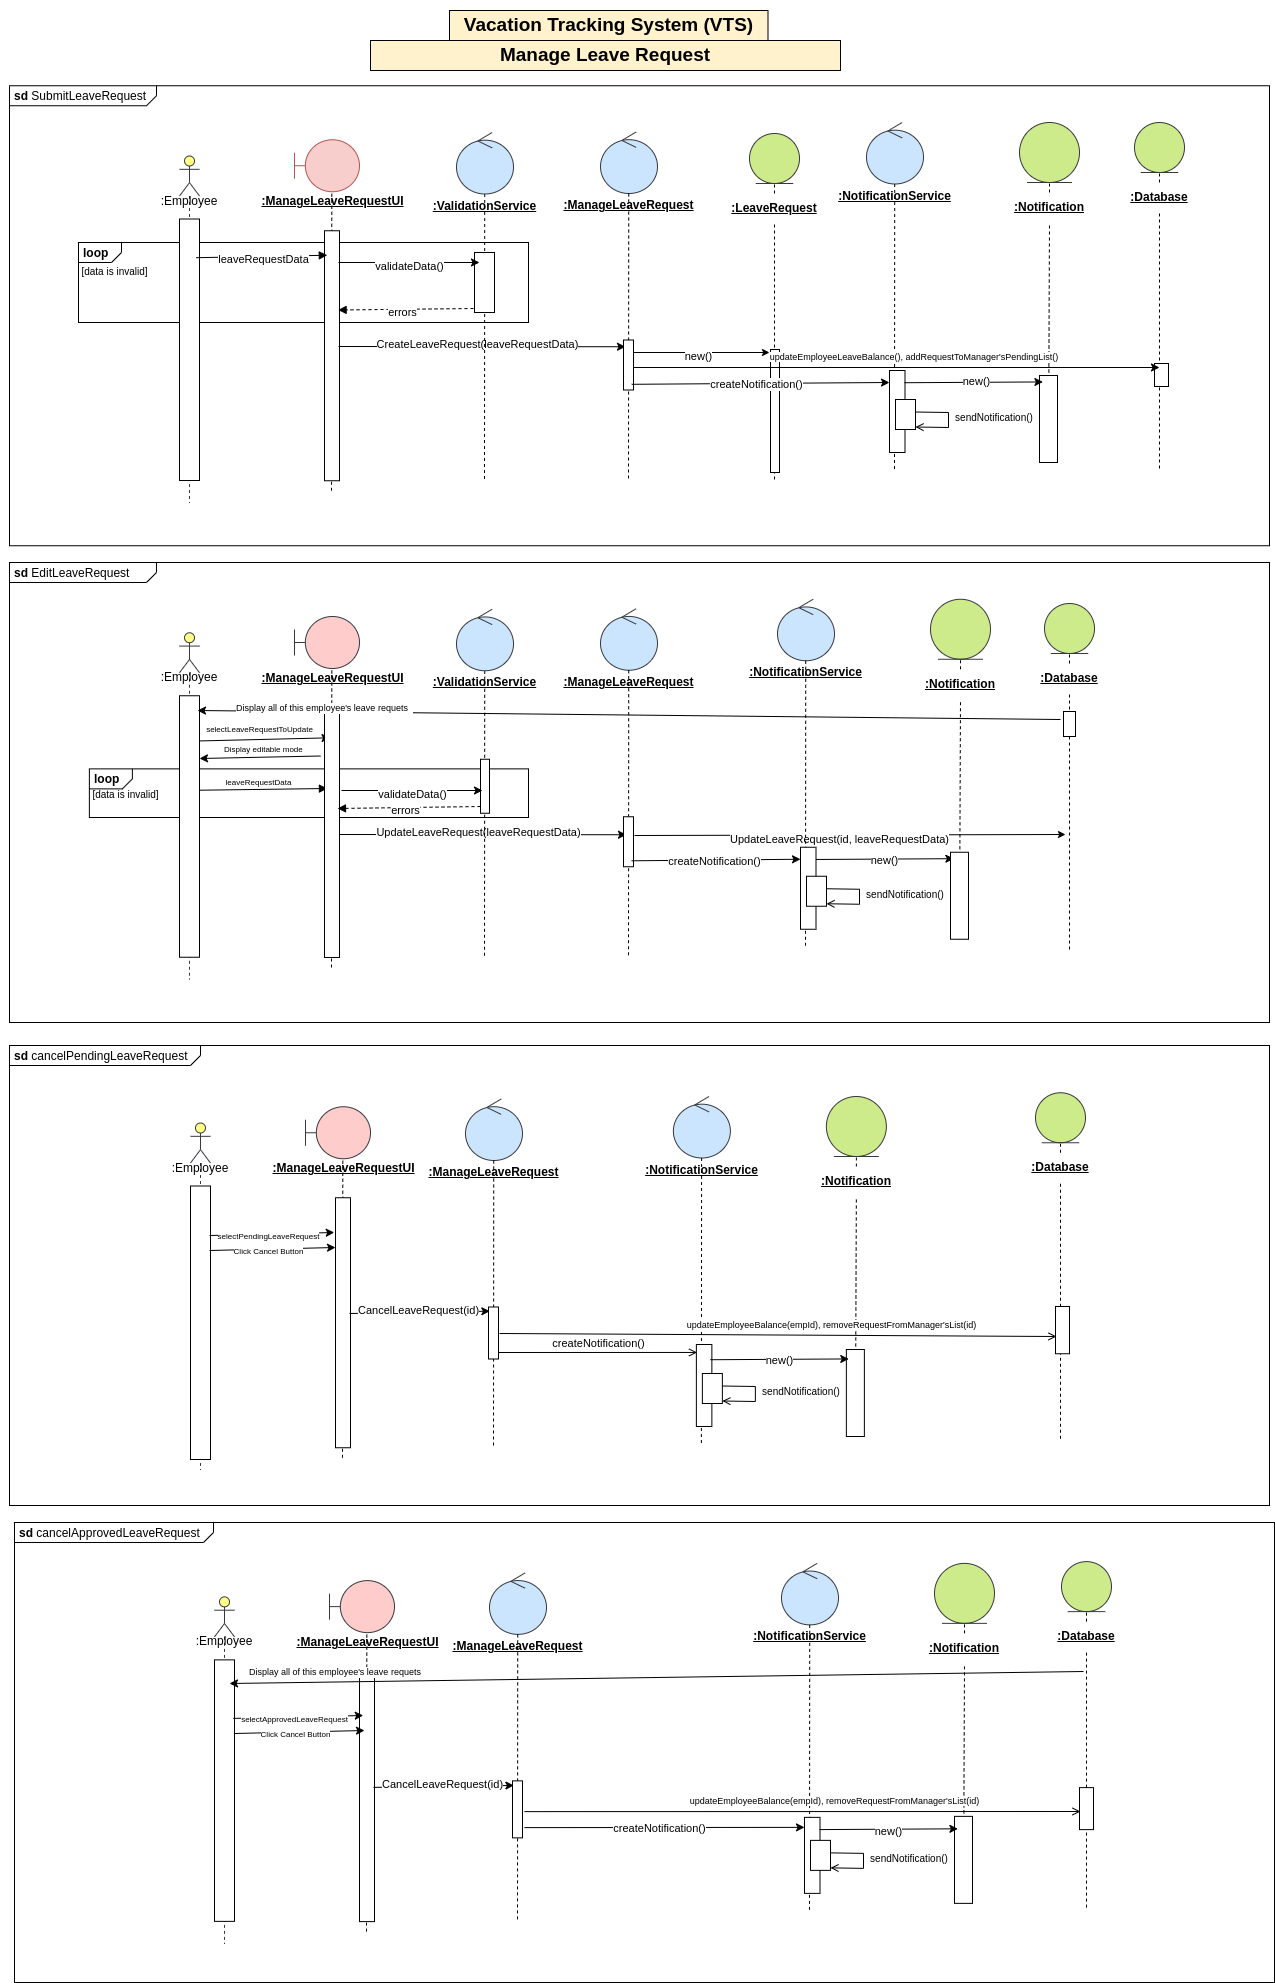
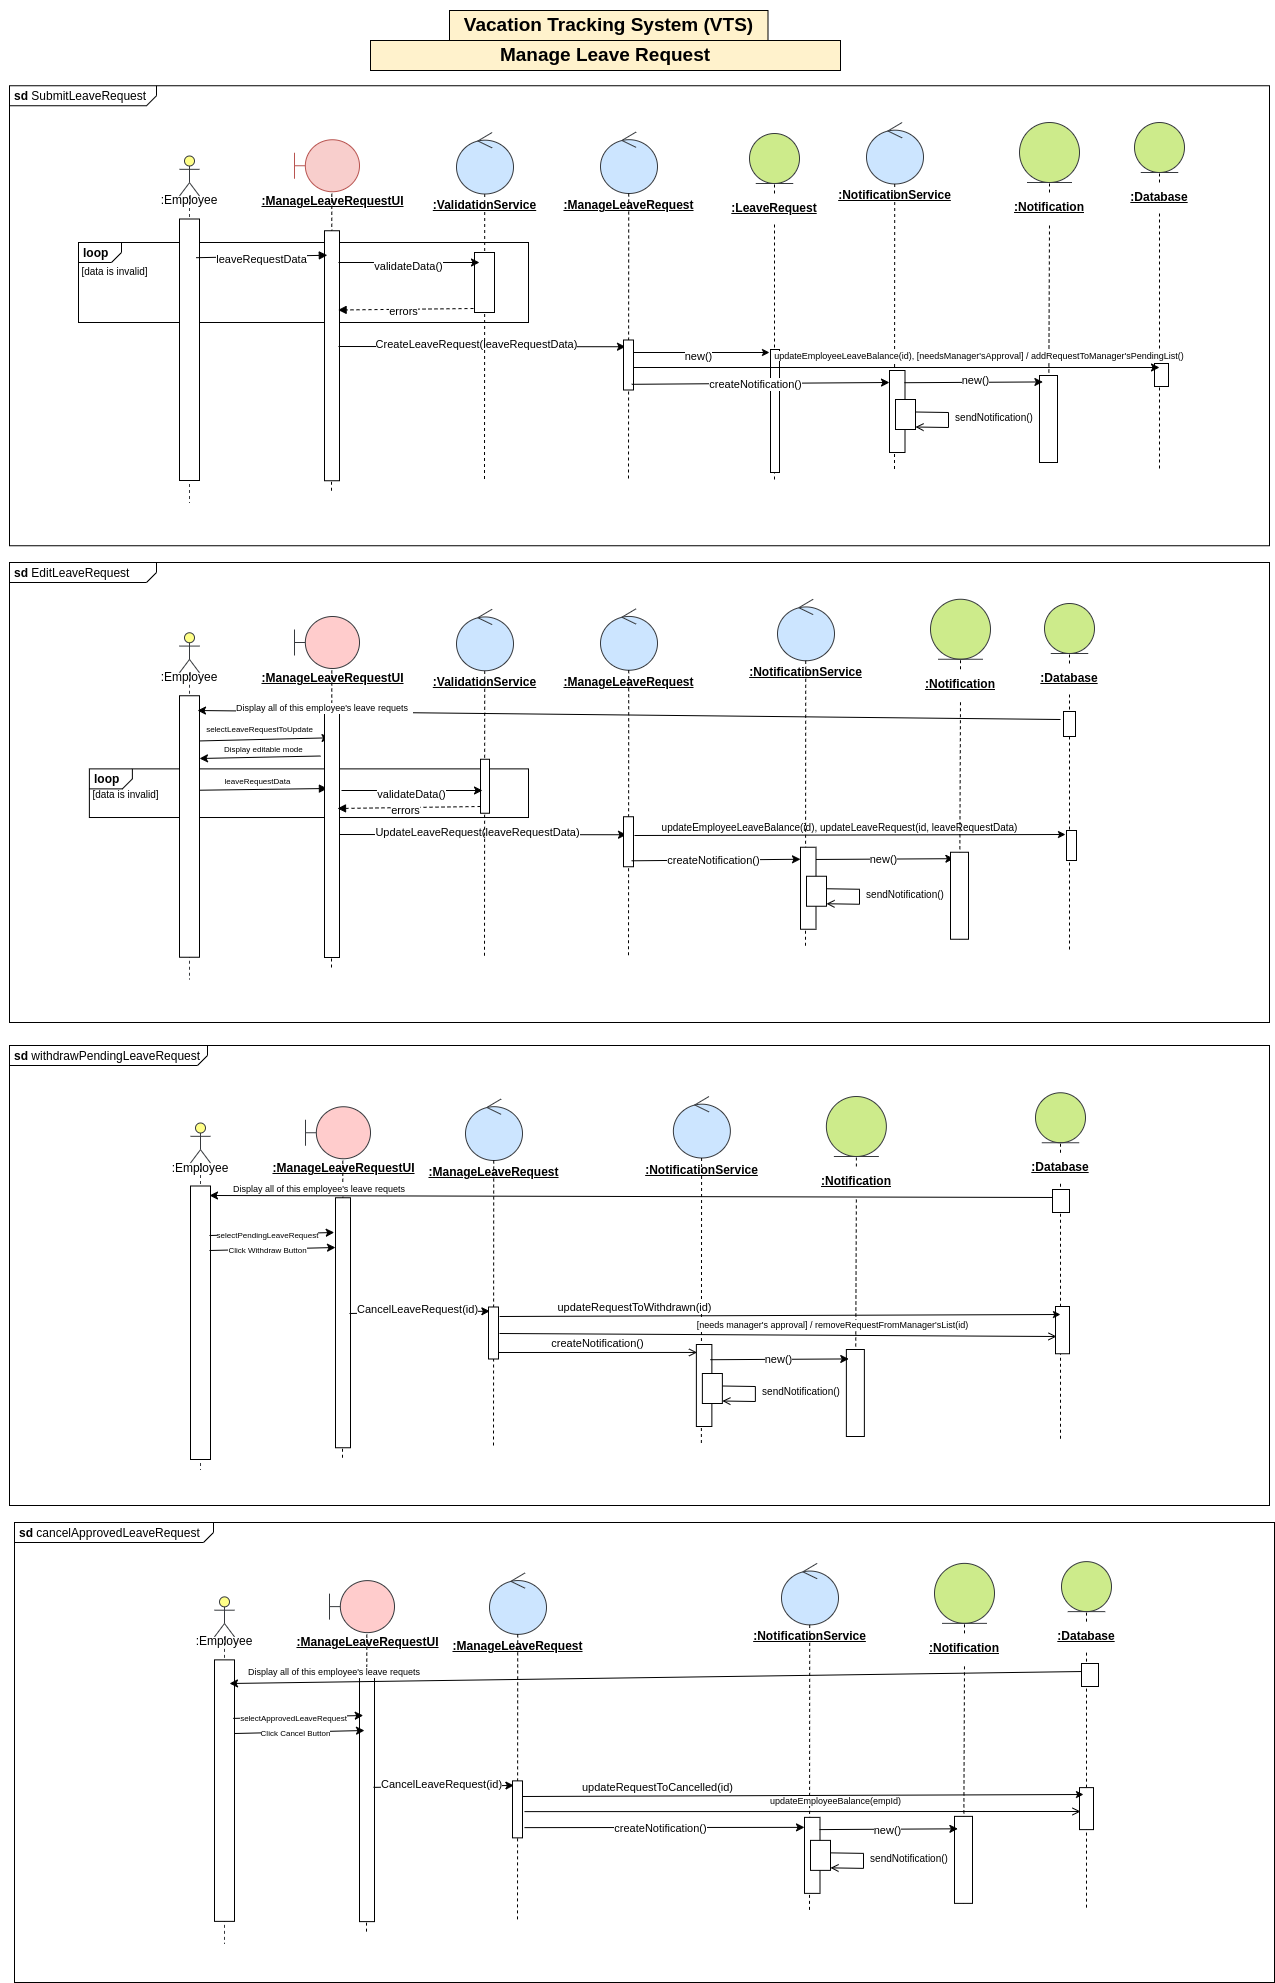
Revise everything and update accordingly

diff --git a/use-cases-specification/ManageLeaveRequest.md b/use-cases-specification/ManageLeaveRequest.md
@@ -19,7 +19,7 @@
 | Postconditions                                                              |
 |------------------------------------------------------------------------------|
 | - A new leave request is created and saved                                  |
-| - Notification is sent to the manager                                       |
+| - A notification is sent to the manager                                       |
 
 ### Main Flow
 | Step | Description                                                                                                                                                   |
@@ -30,7 +30,7 @@
 | 4    | The employee submits the request.                                                                                                                             |
 | 5    | If the submitted information is incomplete or incorrect, relevant errors are shown.                                                                          |
 | 6    | The employee has the opportunity to change the information or cancel the request.                                                                            |
-| 7    | If passes validation, the employee is returned to the VTS home page. If the employee’s leave request requires manager approval, an email is sent to manager. |
+| 7    | If passes validation, an email is sent to manager, and the employee is returned to the VTS home page. If the employee’s leave request requires manager approval, it's added to the manager's pending list  |
 | 8    | The leave request is placed in a pending state.                                                                                                               |
 | 9    | The manager responds to the e-mail by clicking on the link embedded in the e-mail or by explicitly visiting the VTS.                                         |
 | 10   | The manager enters his / her own credentials to enter the system.                                                                                             |
@@ -42,12 +42,12 @@
 
 ---
 
-## Alternate Flow: Cancel Pending Request
+## Alternate Flow: Withdraw Pending Request
 
 ### Goals
 | Goals                                      |
 |-------------------------------------------|
-| - The employee wants to cancel a submitted request. |
+| - The employee wants to withdraw a submitted pending request. |
 
 ### Preconditions
 | Preconditions                                                                                                               |
@@ -58,8 +58,8 @@
 ### Postconditions
 | Postconditions                                                                                      |
 |------------------------------------------------------------------------------------------------------|
-| - A submitted leave request that's in pending state is cancelled.                                   |
-| - Notification is sent to the manager                                                               |
+| - A submitted leave request that's in a pending state is withdrawn.                                   |
+| - A notification is sent to the manager                                                               |
 | - The leave request is removed from the manager's pending requests list                             |
 
 ### Flow
@@ -89,7 +89,7 @@
 | Postconditions                                                                                  |
 |--------------------------------------------------------------------------------------------------|
 | - A submitted leave request that's already has been approved is cancelled.                      |
-| - Notification is sent to the manager.                                                          |
+| - A notification is sent to the manager.                                                          |
 | - The allowance time used to submit the leave request is returned back to the employee.         |
 
 ### Flow
@@ -119,13 +119,13 @@
 | Postconditions                                                                                      |
 |------------------------------------------------------------------------------------------------------|
 | - A submitted leave request that's in pending state is updated.                                     |
-| - Notification is sent to the manager.                                                              |
+| - A notification is sent to the manager.                                                              |
 
 ### Flow
 | Step | Description                                                                                                                                         |
 |------|-----------------------------------------------------------------------------------------------------------------------------------------------------|
 | 1    | The systems uses the employee credentials to retrieve all the employee’s leave requests and display them.                                          |
 | 2    | The employee selects a leave request that’s currently in pending state and scheduled for the future and clicks on edit.                           |
-| 3    | The system displays an editable view of the request. The employee is allowed to change the title, date range, or leave type.                       |
+| 3    | The system displays an editable view of the request. The employee is allowed to change the title, description, date range, or leave type.                       |
 | 4    | The employee changes request information and submits the changes.                                                                                  |
 | 5    | An e-mail notification is sent to the manager, and the employee’s screen returns to the VTS home page.                                             |

diff --git a/README.md b/README.md
@@ -40,21 +40,20 @@ A vacation tracking system will provide the employees with an easy way to manage
 1. Employees can submit a leave request with desired start and end date.  
 2. Managers (approvers) can approve or reject leave requests, with the option to provide a reason for rejection.  
 3. The system must support a fully automated workflow for processing leave requests based on organizational policies.  
-4. The system must support automatic approval for certain types of leave or under defined conditions (e.g., short duration, sufficient balance).  
-5. Employees can view their own leave balance.  
-6. HR users can access any relevant data for any employee, including leave balance, carryovers, leave history, etc.  
-7. The system must integrate with external HR systems to retrieve employees data for automated workflows.
-8. The system must have a notification mechanism (e.g., email, in-app) to:  
+4. Employees can view their own leave balance.  
+5. HR users can access any relevant data for any employee, including leave balance, carryovers, leave history, etc.  
+6. The system must integrate with external HR systems to retrieve employees data for automated workflows.
+7. The system must have a notification mechanism (e.g., email, in-app) to:  
     - inform employees when their request is approved/rejected  
     - alert employees about upcoming end-of-leave  
     - notify managers (approvers) of pending requests  
-9. The HR team can manually approve or reject requests in special cases (e.g., emergencies or out-of-policy requests).  
-10. The system must support special leave types, such as maternity/paternity leave, with manual intervention by HR.  
-11. The system must allow **report generation** for HR (e.g., department-level leave trends, unused leave statistics).  
-12. The system must **check for conflicts or overlaps**, such as multiple team members requesting leave at the same time.  
-13. The system must track audit logs of leave requests and approvals for accountability and compliance.  
-14. The system must allow managers to directly award personal leave time (with system-set limits).  
-15. The HR team can update the system leave policies.  
+8. The HR team can manually approve or reject requests in special cases (e.g., emergencies or out-of-policy requests).  
+9.  The system must support special leave types, such as maternity/paternity leave, with manual intervention by HR.  
+10. The system must allow **report generation** for HR (e.g., department-level leave trends, unused leave statistics).  
+11. The system must **check for conflicts or overlaps**, such as multiple team members requesting leave at the same time.  
+12. The system must track audit logs of leave requests and approvals for accountability and compliance.  
+13. The system must allow managers to directly award personal leave time (with system-set limits).  
+14. The HR team can update the system leave policies.  
 
 ### Non-Functional Requirements (NFR): 
 1. The system must be easy to use, with a clean and intuitive UI for both employees and HR/manager users.
@@ -94,7 +93,7 @@ A vacation tracking system will provide the employees with an easy way to manage
 
 | Use Case | Description |
 |----------|-------------|
-| [`Submit Leave Request`](use-cases/ManageLeaveRequest.md) | Employee submits/cancels/edits a leave request |
+| [`Submit Leave Request`](use-cases-specification/ManageLeaveRequest.md) | Employee submits/cancels/edits a leave request |
 
 ---
 

diff --git a/manageLeaveRequestPseudocode.md b/manageLeaveRequestPseudocode.md
@@ -15,28 +15,17 @@ function submitRequest:
         displayValidationErrors(validationErrors)
     createdLeaveRequest = createNewLeaveRequestInDatabase(leaveRequest)
     updateEmployeeLeaveBalance()
-    addLeaveRequestToManager'sList(createdLeaveRequest)
-    SendAnEmailNotificationToManager()
-```
-
-## Cancel Approved Request Function
-```
-function cancelApprovedRequest:
-    fetchEmployee'sLeaveRequests()
-    FOR index = 1 TO leave_request_list.length
-        DISPLAY leave_request_list[index].details
-    END FOR
-    SET selected_request = GET_CLICKED_ITEM(leave_request_list)
-    cancelRequest(selected_request)
-    updateEmployeeLeaveBalance()
-    removeLeaveRequestFromManager'sList(selected_request)
-    SendAnEmailNotificationToManager()
+    if needsManager'sApproval:
+        addLeaveRequestToManager'sPendingList(createdLeaveRequest)
+        SendAnEmailNotificationToManager()
+    else
+        approveRequestAutomatically()
 ```
 
 ## Edit Request Function
 ```
 function editRequest:
-    fetchEmployee'sLeaveRequests()
+    leave_request_list = fetchEmployee'sLeaveRequests()
     FOR index = 1 TO leave_request_list.length
         DISPLAY leave_request_list[index].details
     END FOR
@@ -57,16 +46,28 @@ function editRequest:
     SendAnEmailNotificationToManager()
 ```
 
-## Cancel Pending Request Function
+## Cancel Approved Request Function
 ```
-function cancelPendingRequest:
-    fetchEmployee'sLeaveRequests()
+function cancelApprovedRequest:
+    leave_request_list = fetchEmployee'sLeaveRequests()
     FOR index = 1 TO leave_request_list.length
         DISPLAY leave_request_list[index].details
     END FOR
     SET selected_request = GET_CLICKED_ITEM(leave_request_list)
     cancelRequest(selected_request)
     updateEmployeeLeaveBalance()
-    removeLeaveRequestFromManager'sList(leaveRequest)
+    SendAnEmailNotificationToManager()
+```
+
+## Withdraw Pending Request Function
+```
+function withdrawPendingRequest:
+    leave_request_list = fetchEmployee'sLeaveRequests()
+    FOR index = 1 TO leave_request_list.length
+        DISPLAY leave_request_list[index].details
+    END FOR
+    SET selected_request = GET_CLICKED_ITEM(leave_request_list)
+    withdrawRequest(selected_request)
+    removeLeaveRequestFromManager'sPendingList(leaveRequest)
     SendAnEmailNotificationToManager()
 ```
